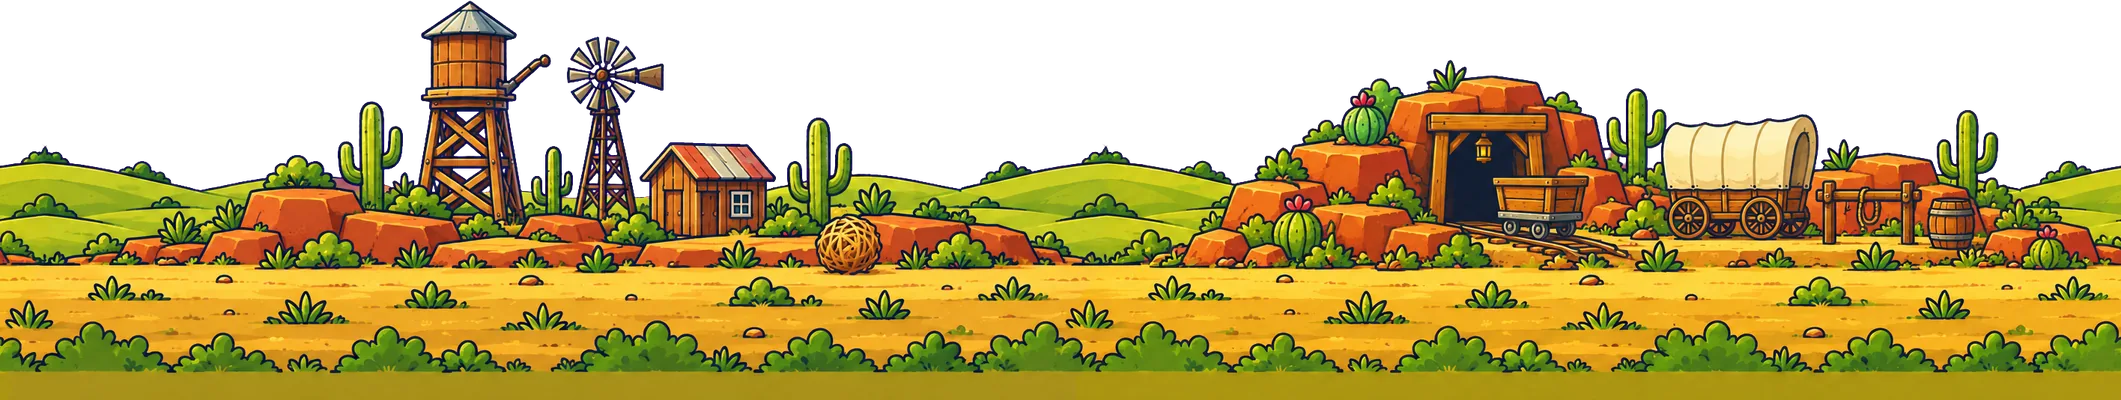
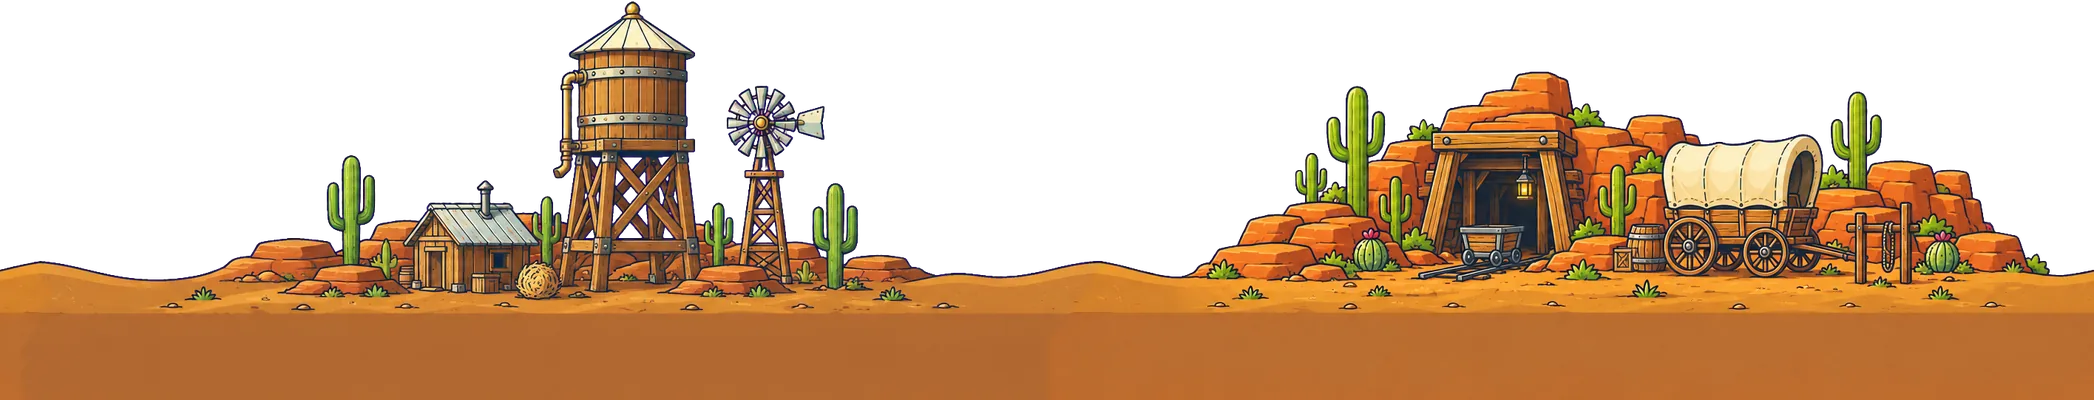
0.10.2: picked backdrops: version 2 for meadow (no two-headed sheep), river and canyon

diff --git a/CLAUDE.md b/CLAUDE.md
@@ -141,7 +141,7 @@ Code style is dense (many one-line functions, short names: `S` flight state, `K`
 
 ## Art: code-drawn plus painted layers (0.9.0)
 - Parts, the goat, decals, UI and most of the world are drawn in code (sharp at every zoom, animated, tiny download). Since 0.10.0 every town flies over painted sprite layers: `LAYERS` in world.js replaces each biome's two hill silhouettes with generated art (`client/src/assets/<town>-far.webp` and `-near.webp`, 1.8 MB for all 16; only the current town's two load, via `preloadLayers` when the hangar opens). Storm weather washes them grey like the code-drawn hills (`tinted`, baked once per image). Over a painted backdrop the code-drawn props are skipped except small ground clutter (`SMALL_PROPS`: grass, rocks). Layers are anchored to the ground line in screen pixels, scroll at the silhouettes' parallax speeds (.05 and .12) and repeat side by side. Parallax offsets advance by the camera's movement times the current zoom each frame (`parStep`/`parOff`): computing them as camX*sc*par made layers slide backwards when the camera zoomed out fast on a dive. until loaded, the silhouette is drawn. Asset URLs must be written literally in `new URL('./assets/x.webp', import.meta.url)` or Vite does not bundle them.
-- Making a layer (0.9.1): generate it with the Codex CLI (docs/concept/README.md) with land at the bottom, flat #FF00FF above, and a tile instruction (plain hills within 15% of both edges, edges at the same height). Generate a second panorama of the same layer with other landmarks, passing the first as a reference. `tools/art/build_layers.sh <png folder>` rebuilds all 16. Per layer: `tools/art/key_layer.py out.webp a.png b.png --tile` (ComfyUI venv Python, numpy + Pillow) cuts both out, stitches them and makes the wrap seamless: each join is cut along the least-different path through a 120 px overlap (image quilting). For soft far layers whose horizons don't meet, add `--morph --band=360`: both ends bend toward a shared horizon and cross-fade. Two panoramas double the repeat (about 1,900 css px for the meadow), so landmarks don't show twice on one screen. The first try used mirrored repeats, which showed twin trees at every seam.
+- Making a layer (0.9.1): generate it with the Codex CLI (docs/concept/README.md) with land at the bottom, flat #FF00FF above, and a tile instruction (plain hills within 15% of both edges, edges at the same height). Generate a second panorama of the same layer with other landmarks, passing the first as a reference. `tools/art/build_layers.sh <png folder>` rebuilds all 16 from the picked versions: every town was generated twice (docs/concept/parallax and parallax-v2) and Thomas picked version 2 for meadow, river and canyon, version 1 for the rest (2026-10-22; version 1's meadow had a two-headed sheep). Generate two versions and let him pick when making new art. Per layer: `tools/art/key_layer.py out.webp a.png b.png --tile` (ComfyUI venv Python, numpy + Pillow) cuts both out, stitches them and makes the wrap seamless: each join is cut along the least-different path through a 120 px overlap (image quilting). For soft far layers whose horizons don't meet, add `--morph --band=360`: both ends bend toward a shared horizon and cross-fade. Two panoramas double the repeat (about 1,900 css px for the meadow), so landmarks don't show twice on one screen. The first try used mirrored repeats, which showed twin trees at every seam.
 - App icon options (2026-10-21): 8 in docs/concept/icons/, on the board; Thomas chose 6 (propeller peek), live since 0.10.1.
 - Concept art pass: docs/concept/ (24 images with prompts), board https://claude.ai/artifact/WZpMz2pq3DjUyvN8Zjwe3r. Quick wins taken from it in 0.9.0: packs are kraft parcels with a goat wax seal (purple paper with brass corners when the pack holds a rare part, `isRare(run.packs[i])`), rare parts are drawn with purple enamel trim, a balsa crate or a copper tank (`ACC`/`CRATE`/`TANKC` swapped inside drawPart), Redline fires a brass shockwave with speed streaks, a sea of cloud tops at 3.6 km fades in above 3.9 km (`cloudSea`), the goat bows after a clean landing (mood `'bow'`, pilotMood), and storms show a pictogram (`WXI`, `wxIcon`) on the storm chip, the route list, the endless forecast and the flight banner.
 
